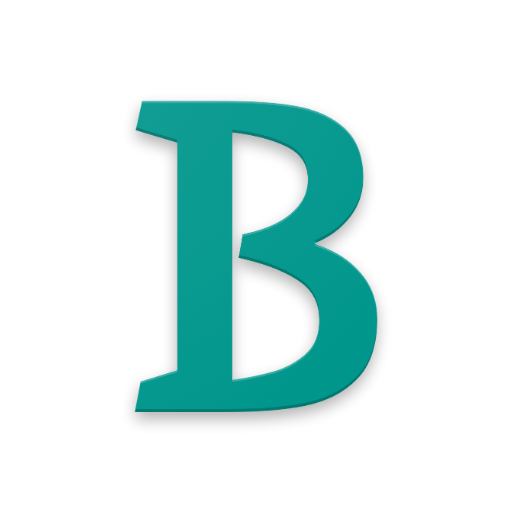
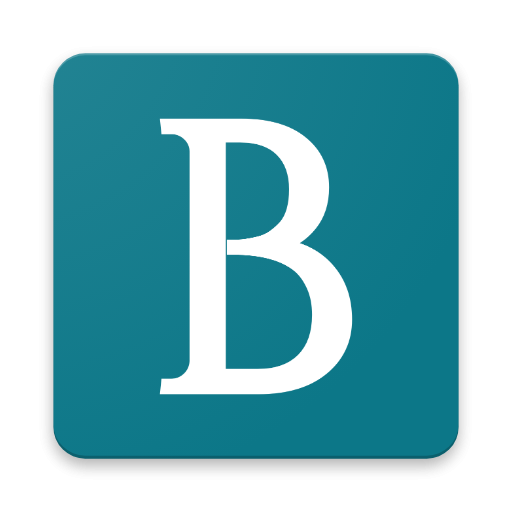
ogp設定修正

diff --git a/app/helpers/application_helper.rb b/app/helpers/application_helper.rb
@@ -19,7 +19,7 @@ module ApplicationHelper
         description: 'プロダクトをSNSに簡単にシェアでき、もらったフィードバックを管理できるサービス',
         url: request.original_url,
         image: {
-          url: image_url('brushapp.png'),
+          url: image_url('brushapp-logo.png'),
           width: 1200,
           height: 630,
         },
@@ -30,7 +30,7 @@ module ApplicationHelper
         site: '@brushapp_me',
         title: 'BrushApp',
         description: 'プロダクトをSNSに簡単にシェアでき、もらったフィードバック管理できるサービス',
-        image: image_url('brushapp.png'),
+        image: image_url('brushapp-logo.png'),
       }
     }
   end
